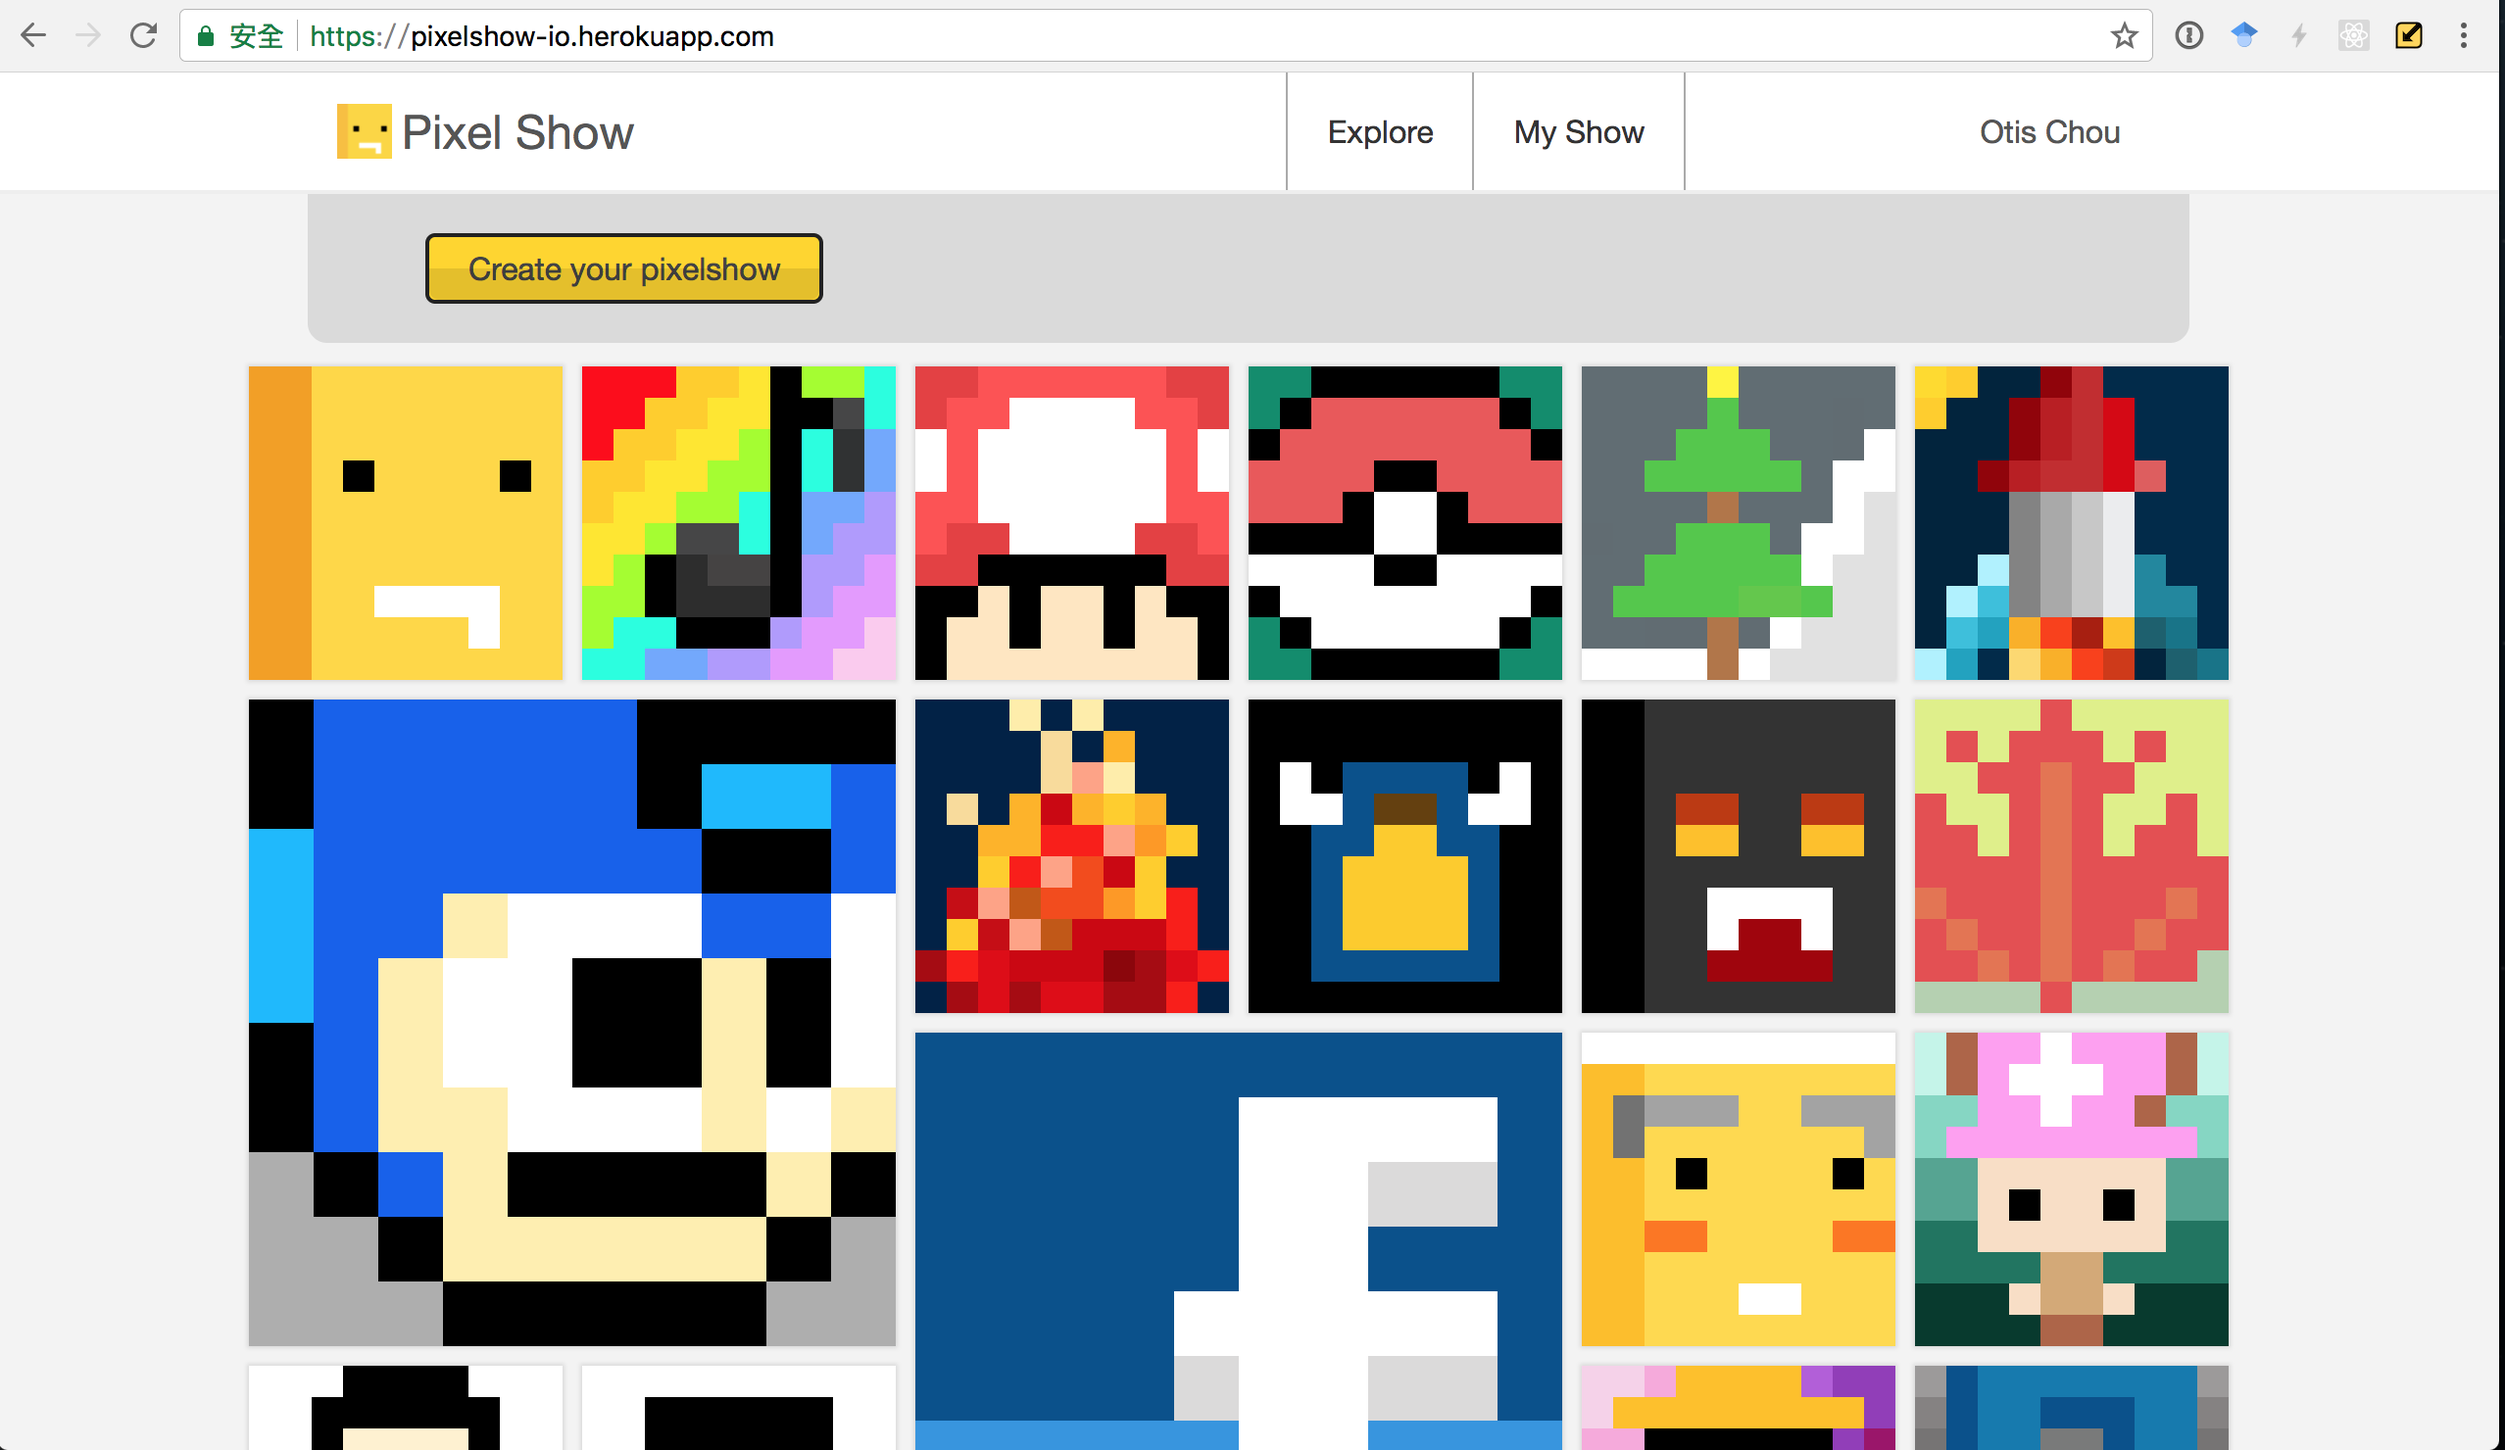
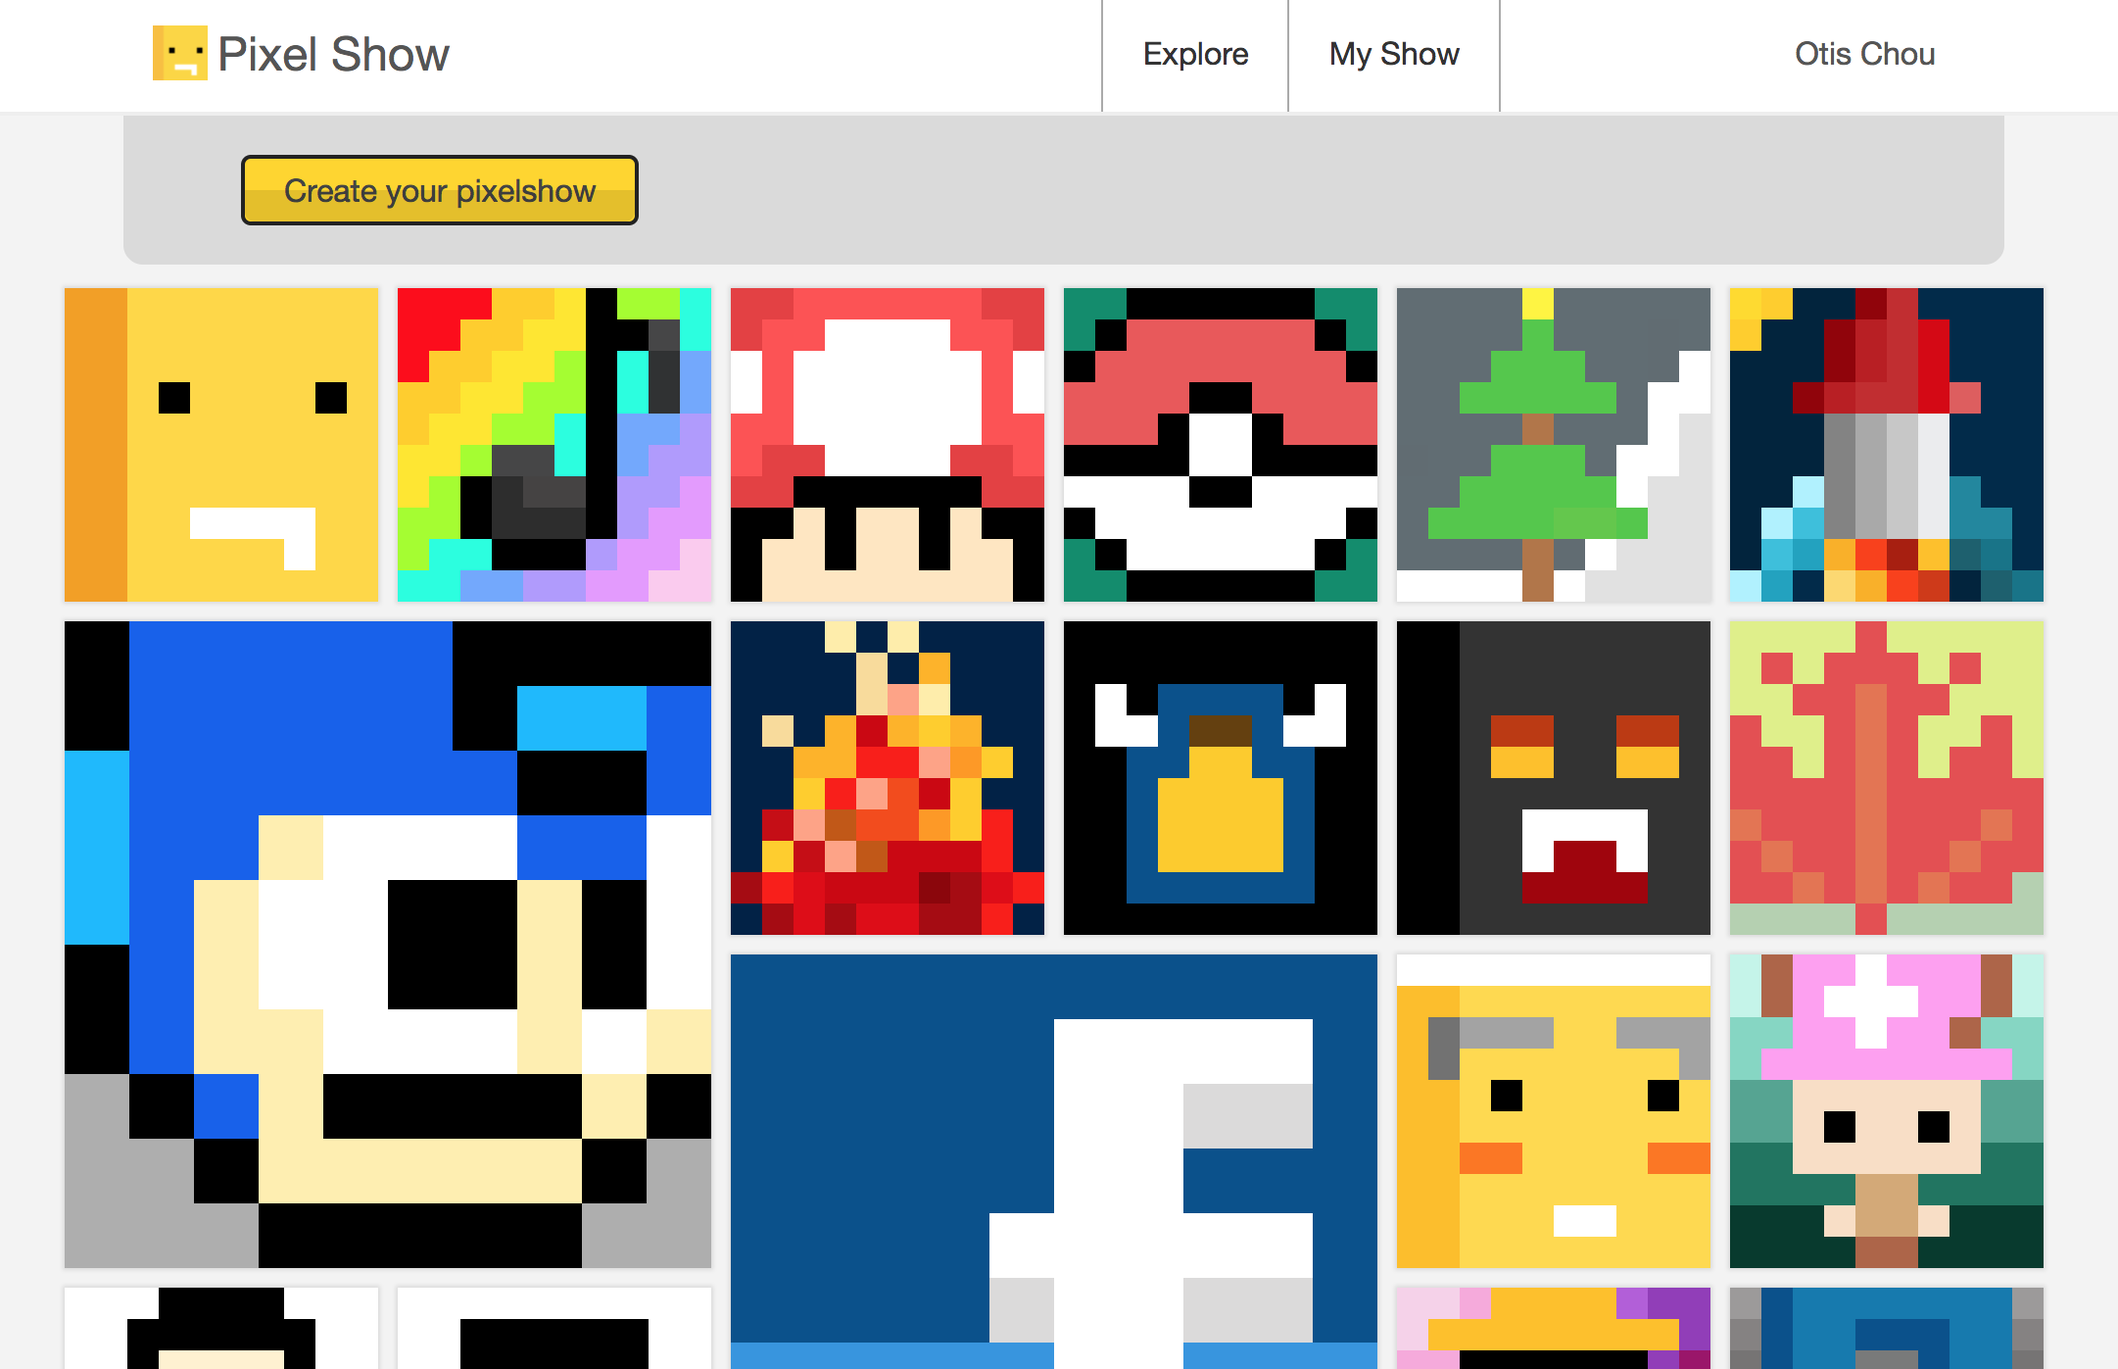
update README

diff --git a/README.md b/README.md
@@ -9,7 +9,10 @@
 
 ## Screenshot
 
+#### 1.
 ![PIXELSHOW](https://github.com/AnNOtis/PixelShowWebSite/blob/master/misc/screenshot.png "PIXELSHOW2")
+
+#### 2.
 ![PIXELSHOW](https://github.com/AnNOtis/PixelShowWebSite/blob/master/misc/screenshot2.png "PIXELSHOW2")
 
 ## Contributing
